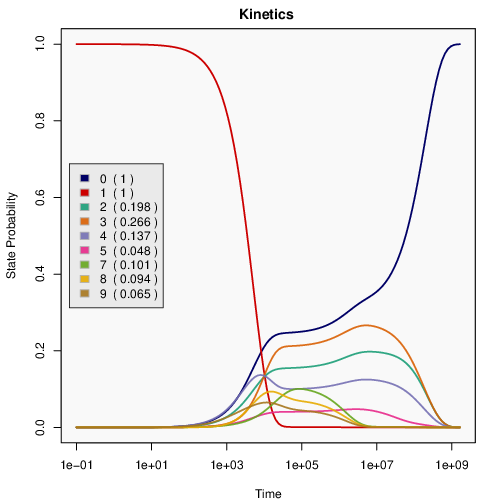
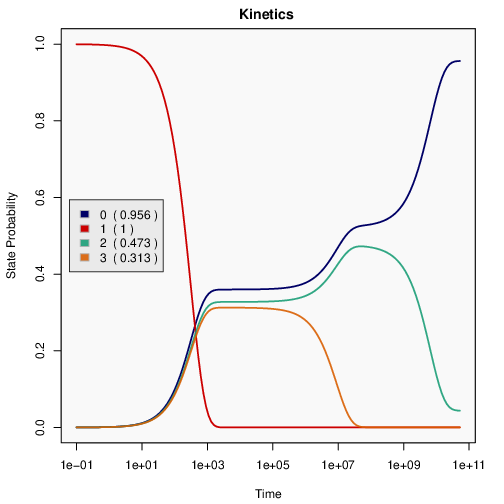
New example

diff --git a/README.md b/README.md
@@ -11,11 +11,11 @@ It features accurate modeling of RNA structures and interaction complexes based 
 Our methods studies the dynamics of the interaction of two RNAs, given as
 sequences, e.g.
 ```
-CGGAGCGACGCUACGUACGGAGCUAGCUGAAACGUAGCAGAGCUAGCUGAAACGUAGCAGAGCUAGCUGAAACGUAGCAGACAGAUACUAGUUUCAAAACUUCCUUGACAGAACCAUUUCAUGUUCAAUAAUGAAAAUUACUUUCACAUGUUUUAGUGGAAAACGUACGUACGUAUCGUAGCGGUUGGACUUACGUAUAC 
+AAAGGGGGGAAAAAAAGGGUGGGAAAAAAAGGGCGGGAAA
 ```
 and
 ```
-GCUGCGAUGCAUGCCUCGAU 
+CCCGCCC
 ```
 
 Figure: Kinetics of RNAs can be analyzed and visualized in many ways. The
